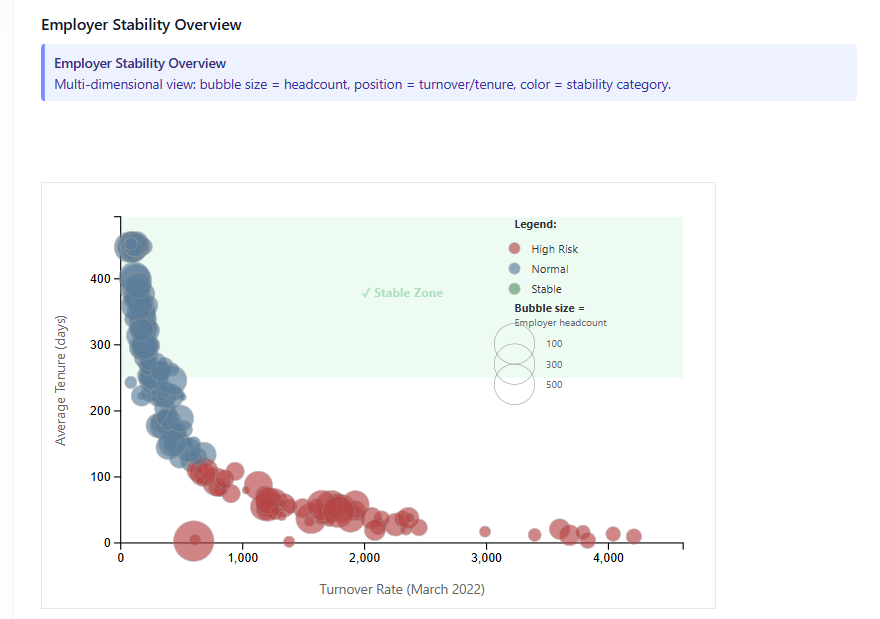
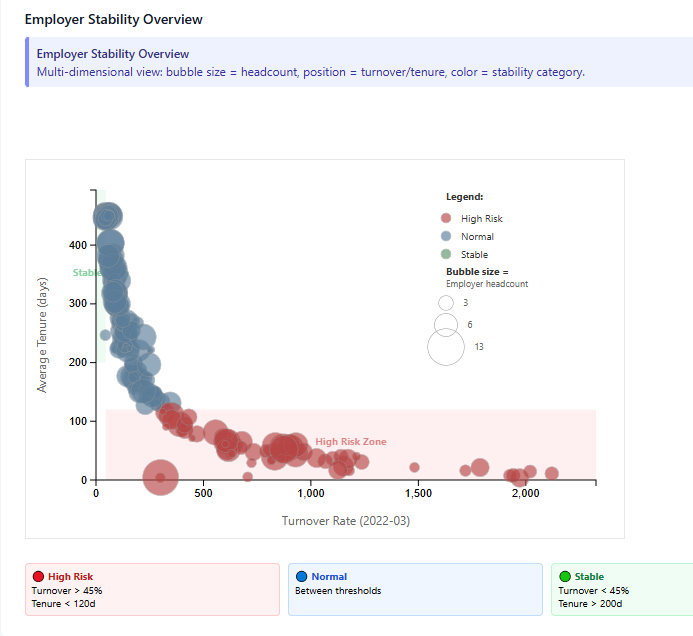
Added fixed submission for employer section

diff --git a/submission/index.html b/submission/index.html
@@ -189,48 +189,55 @@ We looked at resident financial health from three angles: where financial stress
 
 <p class="calibri"><b>Answer:</b></p>
 
-<p class="calibri">We evaluated employer health in Engagement by analyzing workforce stability, turnover intensity, job-to-job mobility, and short-term workforce size changes. Our analysis focuses on March–April 2022, the only period in the dataset where job transitions were observed.</p>
+<p class="calibri">We assessed employer health within the city of Engagement by analyzing workforce stability, turnover intensity, job-to-job mobility, and short-term changes in employee counts. Our analysis is constrained by the dataset: observed job transitions occur primarily during March–April 2022, with no additional job changes recorded afterward. Rather than indicating ongoing stability, this reflects the limits of the available data and is explicitly shown in the interface.</p>
 
-<p class="calibri"><b>Identifying Employers with Extreme Workforce Instability.</b> The Employer Turnover Ranking highlights pronounced differences in workforce change intensity among employers. Rather than representing the full employer population, the visualization focuses on the upper end of the distribution, revealing a subset of employers with exceptionally high turnover values. In several cases, turnover exceeds 100%, reflecting intensive workforce churn amplified by small average headcounts, where repeated employee exits strongly impact the turnover metric.</p>
+<p class="calibri"><b>Workforce Instability and Turnover Concentration</b></p>
 
-<p class="calibri" style="text-align:center;">
-<img src="./img/employer_turnover_ranking.png" alt="Employer Turnover Ranking" style="max-width:90%; margin:10px;"><br>
-<i>Figure 1: Employer Turnover Ranking highlighting employers with the most intense workforce change activity.</i>
-</p>
-
-<p class="calibri">Employers ranking highest by turnover also tend to exhibit elevated quit counts and strongly negative net workforce change, indicating persistent outward movement rather than balanced hiring activity. This pattern suggests localized workforce instability during the observed period, characterized by repeated employee departures rather than short-term hiring spikes. Across the broader dataset, employers with lower turnover and minimal net workforce change display more stable employment behavior. While not all such employers are visible in the ranking view, their limited outward workforce movement and relatively consistent employee counts indicate comparatively stable organizational structures during the analyzed timeframe.</p>
-
-<p class="calibri"><b>Turnover vs. Tenure Patterns.</b> The Turnover Rate vs. Average Tenure scatterplot highlights a clear inverse relationship between tenure and turnover. Employers cluster into two dominant regimes: high turnover and low tenure employers form an instability zone, characterized by short job durations and frequent exits; low turnover and high tenure employers form a stability zone, where workers remain employed for longer periods with minimal churn. This separation suggests that workforce turnover is not evenly distributed across employers but instead concentrated among a specific subset of organizations.</p>
+<p class="calibri">The Employer Turnover Ranking reveals strong heterogeneity in workforce change intensity across employers. The visualization focuses on the upper tail of the distribution, highlighting employers with extreme workforce churn during the observed period. Several employers exhibit turnover rates far exceeding 100%, driven by repeated employee exits relative to small average headcounts.</p>
 
 <p class="calibri" style="text-align:center;">
-<img src="./img/turnover_vs_tenure_scatterplot.png" alt="Turnover vs Tenure Scatterplot" style="max-width:90%; margin:10px;"><br>
-<i>Figure 2: Turnover Rate vs. Average Tenure, showing the inverse relationship between tenure stability and churn intensity.</i>
+<img src="./img/turnover_ranking.png" alt="Employer Turnover Ranking" style="max-width:90%; margin:10px;"><br>
+<i>Figure 1: Employer Turnover Ranking highlighting extreme turnover values.</i>
 </p>
 
-<p class="calibri"><b>Employer Stability Overview.</b> To integrate multiple indicators, we constructed an Employer Stability Overview bubble chart, encoding turnover, tenure, and workforce size simultaneously. This visualization reinforces the contrast between high-risk employers (high turnover, low tenure) and stable employers (low turnover, high tenure). Employers of varying sizes appear in both categories, indicating that workforce size alone does not determine stability. However, high-risk employers with larger headcounts combine scale with elevated churn, increasing their potential impact on overall labor market dynamics.</p>
+<p class="calibri">These extreme values do not indicate growth, but rather intense instability: employers ranking highest by turnover also show high quit counts and strongly negative net workforce change. This pattern suggests persistent outward movement of workers rather than balanced hiring and retention. In contrast, many employers experience little to no workforce change and therefore do not appear in the ranking, indicating comparatively stable employment structures.</p>
+
+<p class="calibri"><b>Stability, Tenure, and Employer Risk Profiles</b></p>
+
+<p class="calibri">The Employer Stability Overview combines turnover, average tenure, and workforce size into a single view. Employers cluster into two dominant regimes:</p>
+
+<p class="calibri" style="margin-left:0.5in;"><b>High-risk employers</b> with high turnover and low average tenure, indicating short job durations and frequent exits.</p>
+
+<p class="calibri" style="margin-left:0.5in;"><b>Stable employers</b> with low turnover and long tenure, reflecting sustained employment relationships.</p>
+
+<p class="calibri">Employer size alone does not determine stability: both small and large employers appear in each regime. However, high-risk employers with larger workforces amplify their impact on city-wide employment volatility.</p>
 
 <p class="calibri" style="text-align:center;">
 <img src="./img/employer_stability_overview.png" alt="Employer Stability Overview" style="max-width:90%; margin:10px;"><br>
-<i>Figure 3: Employer Stability Overview bubble chart: bubble size represents headcount, position encodes turnover and tenure, color indicates stability category.</i>
+<i>Figure 2: Employer Stability Overview showing the clustering of employers into stability regimes.</i>
 </p>
 
-<p class="calibri"><b>Worker Mobility Between Employers.</b> The Job Flow Sankey diagram reveals strong asymmetries in worker movement between employers. A limited number of employers act primarily as sources of outgoing labor, while others function mainly as recipients. These directional flows illustrate how worker mobility links employers into a connected network, with instability at certain organizations contributing disproportionately to overall job transitions.</p>
+<p class="calibri"><b>Worker Mobility Between Employers</b></p>
+
+<p class="calibri">The Job Flow Sankey diagram illustrates directional worker movement between employers. A small number of employers act as major sources of outgoing labor, while others consistently receive workers. This asymmetry shows that workforce instability propagates through the employer network, rather than remaining isolated within individual organizations.</p>
 
 <p class="calibri" style="text-align:center;">
-<img src="./img/job_flow_between_employers.png" alt="Job Flow Between Employers" style="max-width:90%; margin:10px;"><br>
-<i>Figure 4: Job Flow Sankey diagram showing worker transitions between employers, revealing which organizations are sources vs. destinations of labor.</i>
+<img src="./img/job_flow_sankey.png" alt="Job Flow Sankey" style="max-width:90%; margin:10px;"><br>
+<i>Figure 3: Job Flow Sankey diagram illustrating directional worker movement between employers.</i>
 </p>
 
-<p class="calibri"><b>Short-Term Workforce Growth and Decline.</b> The Employee Count Trends step-line chart shows that workforce size changes occur in short, concentrated bursts within the limited period where changes were recorded. Several employers experience abrupt increases followed by rapid contractions over a small number of days. Although the observed time window is short, these sharp fluctuations align with employers identified as high turnover, reinforcing the association between churn and short-term workforce volatility.</p>
+<p class="calibri"><b>Short-Term Workforce Fluctuations</b></p>
+
+<p class="calibri">The Employee Count Trends visualization shows that workforce changes occur in short, concentrated bursts during the limited period with recorded transitions. Employers experiencing high turnover also exhibit abrupt rises and drops in employee counts, reinforcing the link between turnover intensity and workforce volatility.</p>
 
 <p class="calibri" style="text-align:center;">
-<img src="./img/employee_count_trends_plot.png" alt="Employee Count Trends" style="max-width:90%; margin:10px;"><br>
-<i>Figure 5: Employee Count Trends step-line chart showing workforce size changes over time, highlighting employers with rapid hiring and departure cycles.</i>
+<img src="./img/employee_count_thread.png" alt="Employee Count Trends" style="max-width:90%; margin:10px;"><br>
+<i>Figure 4: Employee Count Trends showing workforce fluctuations during periods of high turnover.</i>
 </p>
 
-<p class="calibri"><b>Conclusion.</b> Overall, employer health in Engagement is highly uneven. A minority of employers exhibit pronounced instability, characterized by high turnover, low tenure, and strong outward workforce movement. In contrast, a larger group maintains relatively stable, long-term employment relationships. The concentration of turnover among specific employers suggests <b>targeted labor market stress rather than systemic instability across the city</b>. This pattern aligns with the resident financial stress observed in Question 2: households experiencing job instability are likely concentrated among the employees of these high-turnover employers.</p>
+<p class="calibri"><b>Conclusions</b></p>
 
-<p class="calibri"><b>Visual Analytics Process.</b> We began with the <b>Employer Turnover Ranking</b> to identify which employers exhibited the most intense workforce churn. To understand the mechanisms behind turnover, we plotted <b>Turnover Rate vs. Average Tenure</b>, revealing that instability is driven by both high exit rates and short job durations. The <b>Employer Stability Overview</b> integrated tenure, turnover, and headcount into a single view, allowing us to distinguish stable organizations from those at risk. The <b>Job Flow Sankey diagram</b> provided crucial insights into labor market connectivity: by visualizing directional worker flows, we identified which employers disproportionately contribute to overall job transitions. Finally, the <b>Employee Count Trends</b> chart captured short-term volatility, showing that workforce instability manifests as sharp, concentrated hiring and departure cycles. Together, these linked views enabled us to pinpoint the subset of employers responsible for most of the labor market churn and assess their potential impact on resident financial stability.</p>
+<p class="calibri">Overall, employer health in Engagement is highly uneven. A minority of employers exhibit acute workforce instability, characterized by high turnover, low tenure, and strong outward job flows. Most employers, however, show limited workforce movement and relatively stable employment relationships during the observed period. The concentration of instability among specific employers suggests localized labor market stress rather than city-wide systemic disruption.</p>
 
 <p>&nbsp;</p>
 
